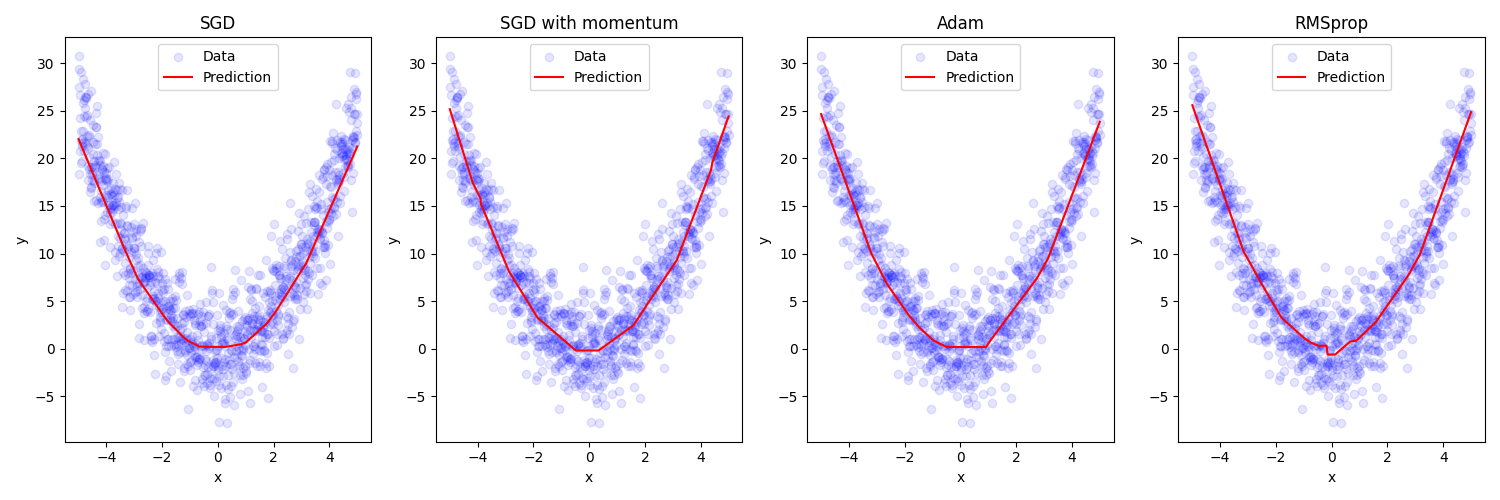
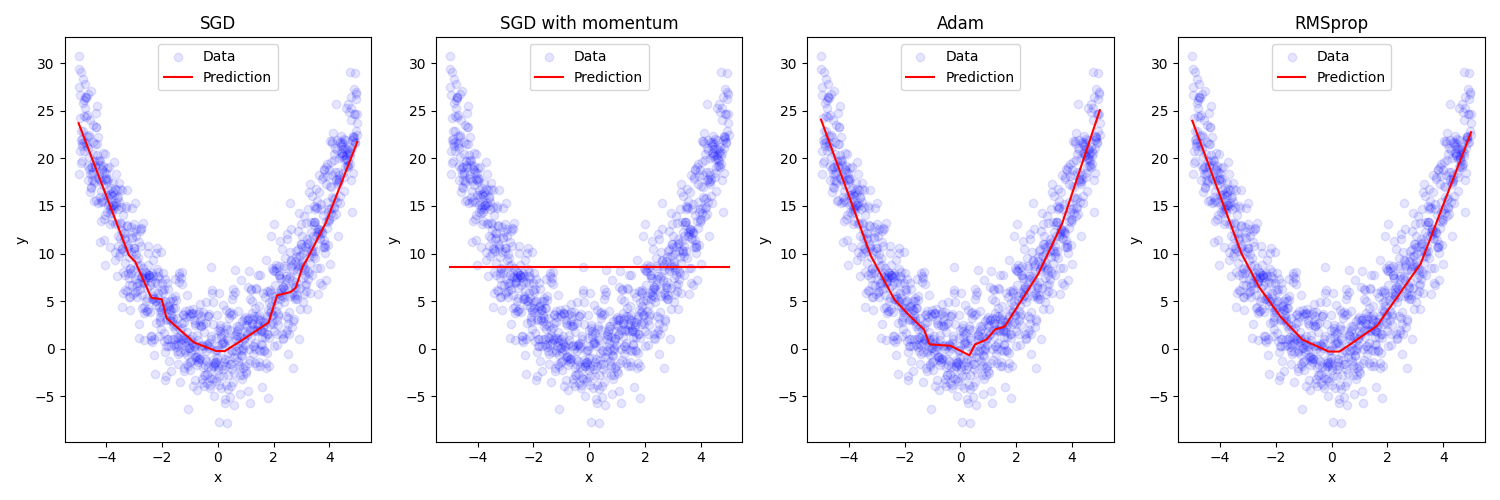
Implement mini-batch training in optimizer comparison tutorial
This commit updates the optimizer comparison script to use DataLoader for mini-batch training, introducing:
- Small batch training with shuffling
- Epoch-level average loss calculation
- Updated visualization with mini-batch training approach
- Improved training process with more robust data handling

The changes demonstrate a more realistic training methodology and enhance the tutorial's educational value.

diff --git a/optimizer_comparison_tutorial.py b/optimizer_comparison_tutorial.py
@@ -2,11 +2,12 @@ import torch
 import torch.nn as nn
 import matplotlib.pyplot as plt
 import numpy as np
+from torch.utils.data import Dataset, DataLoader, TensorDataset
 
 """
 本教程目的：
 1. 理解不同优化器的工作方式和性能差异
-2. 学习如何实现和比较不同的优化器
+2. 学习如何使用DataLoader实现小批量训练
 3. 观察优化器对训练过程的影响
 4. 理解如何可视化和分析训练结果
 """
@@ -52,35 +53,40 @@ class SimpleNet(nn.Module):
         return self.net(x)
 
 # 3. 训练函数
-def train_model(model, optimizer, x_train, y_train, epochs=1000):
+def train_model(model, optimizer, train_loader, epochs=1000):
     """
-    训练模型的函数
+    使用DataLoader进行小批量训练
     
     参数：
     - model: 要训练的神经网络模型
     - optimizer: 使用的优化器
-    - x_train, y_train: 训练数据
+    - train_loader: 数据加载器，提供小批量数据
     - epochs: 训练轮数
-    
-    返回：
-    - losses: 训练过程中的损失历史
-    
-    目的：展示完整的训练循环和损失记录过程
     """
-    criterion = nn.MSELoss()  # 均方误差损失函数
+    criterion = nn.MSELoss()
     losses = []
     
     for epoch in range(epochs):
-        optimizer.zero_grad()         # 清除现有梯度
-        output = model(x_train)       # 前向传播
-        loss = criterion(output, y_train)  # 计算损失
-        loss.backward()               # 反向传播
-        optimizer.step()              # 更新参数
-        losses.append(loss.item())    # 记录损失
+        epoch_loss = 0
+        batch_count = 0
         
-        # 打印训练进度
+        # 每个epoch都会打乱数据顺序
+        for batch_x, batch_y in train_loader:
+            optimizer.zero_grad()
+            output = model(batch_x)
+            loss = criterion(output, batch_y)
+            loss.backward()
+            optimizer.step()
+            
+            epoch_loss += loss.item()
+            batch_count += 1
+        
+        # 计算每个epoch的平均损失
+        avg_loss = epoch_loss / batch_count
+        losses.append(avg_loss)
+        
         if (epoch + 1) % 200 == 0:
-            print(f'Epoch [{epoch+1}/{epochs}], Loss: {loss.item():.4f}')
+            print(f'Epoch [{epoch+1}/{epochs}], Average Loss: {avg_loss:.4f}')
     
     return losses
 
@@ -96,6 +102,16 @@ def compare_optimizers():
     """
     # 生成训练数据
     x_train, y_train = generate_data()
+    
+    # 创建数据集和数据加载器
+    train_dataset = TensorDataset(x_train, y_train)
+    train_loader = DataLoader(
+        dataset=train_dataset,
+        batch_size=32,          # 小批量大小
+        shuffle=True,           # 随机打乱
+        num_workers=0,          # 单进程加载
+        drop_last=True          # 丢弃不完整的批次
+    )
     
     # 定义要比较的优化器
     optimizers = {
@@ -114,7 +130,7 @@ def compare_optimizers():
         print(f"\nTraining with {opt_name}")
         model = SimpleNet()
         optimizer = opt_class(model.parameters())
-        losses = train_model(model, optimizer, x_train, y_train)
+        losses = train_model(model, optimizer, train_loader)
         all_losses[opt_name] = losses
         trained_models[opt_name] = model
     
@@ -123,8 +139,8 @@ def compare_optimizers():
     for opt_name, losses in all_losses.items():
         plt.plot(losses, label=opt_name)
     plt.xlabel('Epoch')
-    plt.ylabel('Loss')
-    plt.title('Training Loss with Different Optimizers')
+    plt.ylabel('Average Loss')
+    plt.title('Training Loss with Different Optimizers (Mini-batch)')
     plt.legend()
     plt.yscale('log')  # 使用对数尺度更好地显示损失变化
     plt.grid(True)
